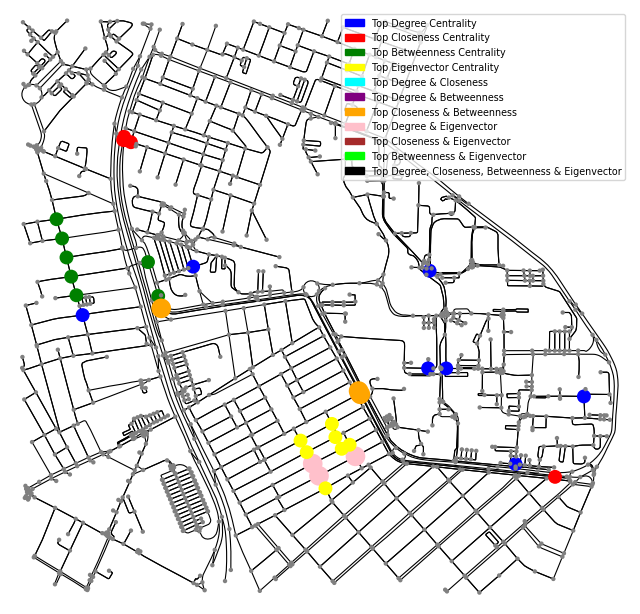
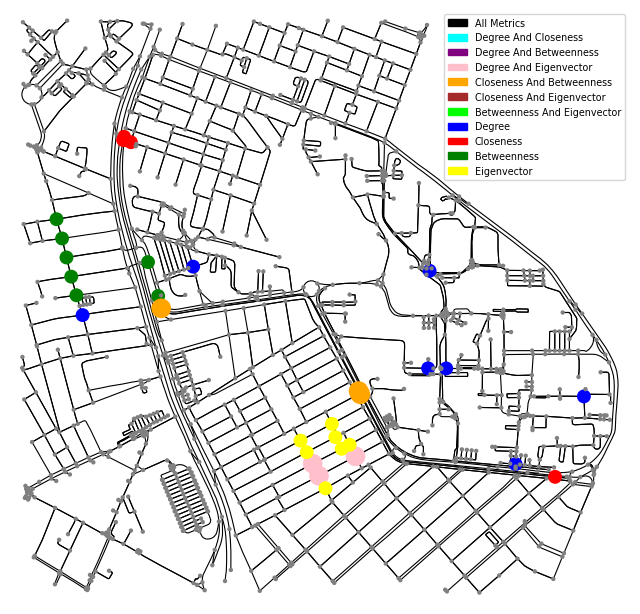
Updating README

Changed region(s): [[0.5312, 0.0309, 0.9688, 0.3094]]

diff --git a/U1T5/README.md b/U1T5/README.md
@@ -64,67 +64,64 @@ To address the question, we analyze the **top central nodes** in the network usi
 The steps involve calculating each centrality measure and selecting the top 10 nodes for each. Intersections between metrics highlight nodes that exhibit high centrality in multiple measures, indicating their prominent role in network connectivity.
 
 ```python
+
 import matplotlib.pyplot as plt
 import matplotlib.patches as mpatches
 
-degree_centrality = nx.degree_centrality(ufrn)
-closeness_centrality = nx.closeness_centrality(ufrn)
-betweenness_centrality = nx.betweenness_centrality(ufrn)
-eigenvector_centrality = nx.eigenvector_centrality(ox.convert.to_digraph(ufrn), max_iter=1000)
+centrality_measures = {
+    'degree': nx.degree_centrality(ufrn),
+    'closeness': nx.closeness_centrality(ufrn),
+    'betweenness': nx.betweenness_centrality(ufrn),
+    'eigenvector': nx.eigenvector_centrality(ox.convert.to_digraph(ufrn), max_iter=1000)
+}
 
-top_10_degree = set(sorted(degree_centrality, key=degree_centrality.get, reverse=True)[:10])
-top_10_closeness = set(sorted(closeness_centrality, key=closeness_centrality.get, reverse=True)[:10])
-top_10_betweenness = set(sorted(betweenness_centrality, key=betweenness_centrality.get, reverse=True)[:10])
-top_10_eigenvector = set(sorted(eigenvector_centrality, key=eigenvector_centrality.get, reverse=True)[:10])
+top_10_nodes = {key: set(sorted(measure, key=measure.get, reverse=True)[:10]) for key, measure in centrality_measures.items()}
 
-top_degree_closeness = top_10_degree & top_10_closeness
-top_degree_betweenness = top_10_degree & top_10_betweenness
-top_degree_eigenvector = top_10_degree & top_10_eigenvector
-top_closeness_betweenness = top_10_closeness & top_10_betweenness
-top_closeness_eigenvector = top_10_closeness & top_10_eigenvector
-top_betweenness_eigenvector = top_10_betweenness & top_10_eigenvector
-top_all_metrics = top_10_degree & top_10_closeness & top_10_betweenness & top_10_eigenvector
+top_combinations = {
+    'degree & closeness': top_10_nodes['degree'] & top_10_nodes['closeness'],
+    'degree & betweenness': top_10_nodes['degree'] & top_10_nodes['betweenness'],
+    'degree & eigenvector': top_10_nodes['degree'] & top_10_nodes['eigenvector'],
+    'closeness & betweenness': top_10_nodes['closeness'] & top_10_nodes['betweenness'],
+    'closeness & eigenvector': top_10_nodes['closeness'] & top_10_nodes['eigenvector'],
+    'betweenness & eigenvector': top_10_nodes['betweenness'] & top_10_nodes['eigenvector'],
+    'all metrics': top_10_nodes['degree'] & top_10_nodes['closeness'] & top_10_nodes['betweenness'] & top_10_nodes['eigenvector']
+}
 
-node_colors = []
-node_sizes = []
+for name, nodes in {**top_10_nodes, **top_combinations}.items():
+    print(f'Top 10 {name.capitalize()} Centrality: {nodes}')
+
+color_map = {
+    'all metrics': ('black', 250),
+    'degree & closeness': ('cyan', 200),
+    'degree & betweenness': ('purple', 200),
+    'degree & eigenvector': ('pink', 200),
+    'closeness & betweenness': ('orange', 200),
+    'closeness & eigenvector': ('brown', 200),
+    'betweenness & eigenvector': ('lime', 200),
+    'degree': ('blue', 100),
+    'closeness': ('red', 100),
+    'betweenness': ('green', 100),
+    'eigenvector': ('yellow', 100),
+    'default': ('grey', 10)
+}
+
+node_colors, node_sizes = [], []
 
 for node in ufrn.nodes:
-    if node in top_all_metrics:
-        node_colors.append('black')
-        node_sizes.append(250)
-    elif node in top_degree_closeness:
-        node_colors.append('cyan')
-        node_sizes.append(200)
-    elif node in top_degree_betweenness:
-        node_colors.append('purple')
-        node_sizes.append(200)
-    elif node in top_closeness_betweenness:
-        node_colors.append('orange')
-        node_sizes.append(200)
-    elif node in top_degree_eigenvector:
-        node_colors.append('pink')
-        node_sizes.append(200)
-    elif node in top_closeness_eigenvector:
-        node_colors.append('brown')
-        node_sizes.append(200)
-    elif node in top_betweenness_eigenvector:
-        node_colors.append('lime')
-        node_sizes.append(200)
-    elif node in top_10_degree:
-        node_colors.append('blue')
-        node_sizes.append(100)
-    elif node in top_10_closeness:
-        node_colors.append('red')
-        node_sizes.append(100)
-    elif node in top_10_betweenness:
-        node_colors.append('green')
-        node_sizes.append(100)
-    elif node in top_10_eigenvector:
-        node_colors.append('yellow')
-        node_sizes.append(100)
+    color, size = color_map['default']  # Valores padrão
+
+    for label, nodes in top_combinations.items():
+        if node in nodes:
+            color, size = color_map[label]
+            break
     else:
-        node_colors.append('grey')
-        node_sizes.append(10)
+        for label, nodes in top_10_nodes.items():
+            if node in nodes:
+                color, size = color_map[label]
+                break
+
+    node_colors.append(color)
+    node_sizes.append(size)
 
 fig, ax = ox.plot_graph(
     ufrn,
@@ -137,19 +134,7 @@ fig, ax = ox.plot_graph(
     close=False
 )
 
-legend_handles = [
-    mpatches.Patch(color='blue', label='Top Degree Centrality'),
-    mpatches.Patch(color='red', label='Top Closeness Centrality'),
-    mpatches.Patch(color='green', label='Top Betweenness Centrality'),
-    mpatches.Patch(color='yellow', label='Top Eigenvector Centrality'),
-    mpatches.Patch(color='cyan', label='Top Degree & Closeness'),
-    mpatches.Patch(color='purple', label='Top Degree & Betweenness'),
-    mpatches.Patch(color='orange', label='Top Closeness & Betweenness'),
-    mpatches.Patch(color='pink', label='Top Degree & Eigenvector'),
-    mpatches.Patch(color='brown', label='Top Closeness & Eigenvector'),
-    mpatches.Patch(color='lime', label='Top Betweenness & Eigenvector'),
-    mpatches.Patch(color='black', label='Top Degree, Closeness, Betweenness & Eigenvector')
-]
+legend_handles = [mpatches.Patch(color=color, label=label.replace(' & ', ' and ').title()) for label, (color, _) in color_map.items() if label != 'default']
 
 plt.legend(
     handles=legend_handles, 
@@ -159,5 +144,6 @@ plt.legend(
     markerscale=0.7
 )
 plt.show()
+
 ```
 ![Centrality Metrics](./centrality_metrics.png)
